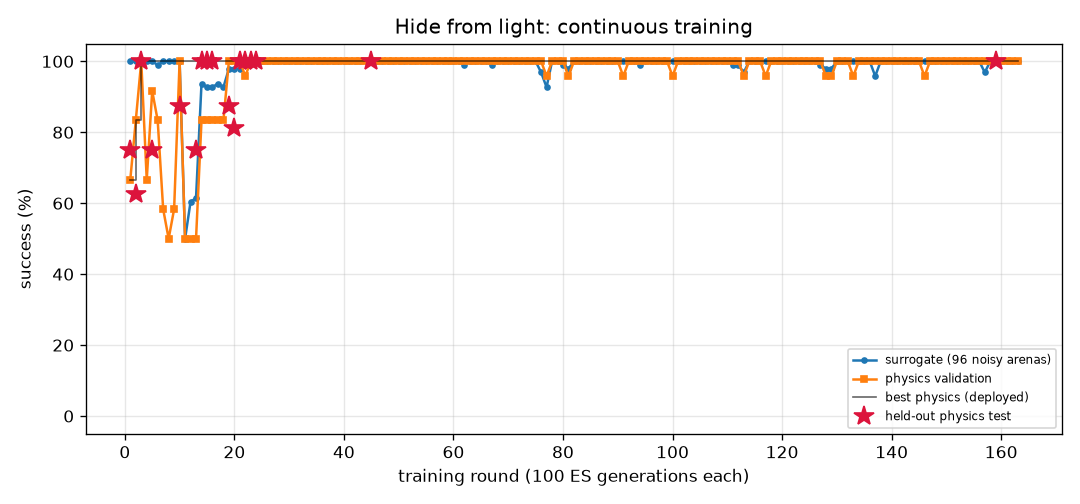
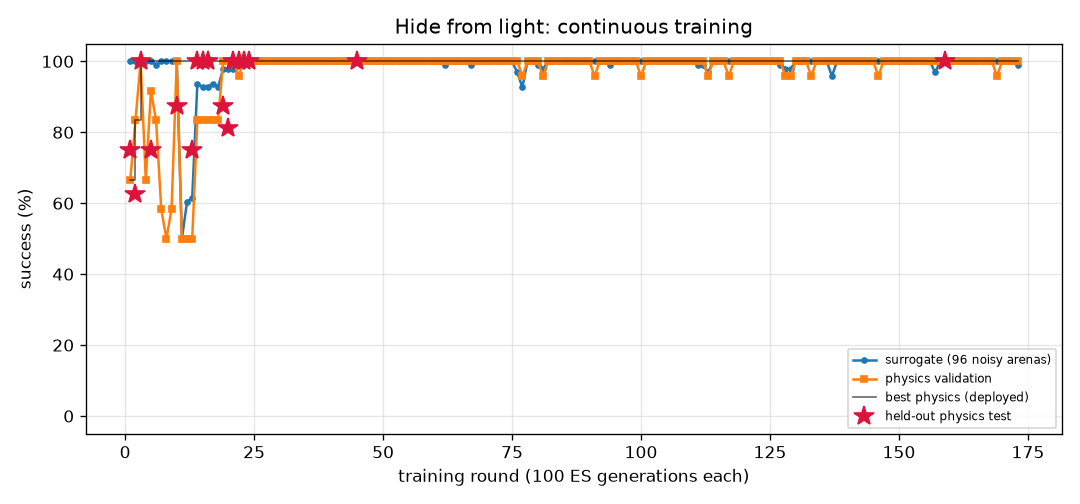
FlyLab: continuous training progress
- walk_forward: optimal, physics val 100% of 24, round 72
- turn: optimal, physics val 100% of 24, round 301
- goto: optimal, physics val 100% of 24, round 73
- odor_seek: optimal, physics val 100% of 24, round 81
- odor_avoid: optimal, physics val 100% of 24, round 395
- light_seek: optimal, physics val 100% of 24, round 259
- light_avoid: optimal, physics val 100% of 24, round 173

diff --git a/projects/09_flylab/training/odor_avoid/REPORT.md b/projects/09_flylab/training/odor_avoid/REPORT.md
@@ -1,14 +1,14 @@
 # Escape a bad smell (`odor_avoid`) — training report
 
-*Auto-generated by `train_brains.py`, last updated 2026-10-10T23:16:25.*
+*Auto-generated by `train_brains.py`, last updated 2026-10-11T11:41:08.*
 
 ![curve](curve.png)
 
 | | |
 |---|---|
-| rounds | 384 |
-| ES generations | 38400 |
-| physics runs | 6522 |
+| rounds | 395 |
+| ES generations | 39500 |
+| physics runs | 6786 |
 | status | **optimal** |
 | best brain | round 373: physics validation **100%** on 24 arenas, surrogate 97% |
 | held-out physics test | **97%** on 32 unseen arenas (95% CI 84%-99%) (errors: [62.0, 57.4, 62.6, 61.9, 59.0, 61.6, 56.5, 60.7, 31.7, 60.9, 63.1, 57.1, 61.1, 62.1, 61.5, 60.2, 62.2, 55.2, 62.1, 54.2, 61.3, 62.0, 58.0, 61.9, 59.8, 56.5, 56.3, 56.4, 56.3, 57.7, 61.9, 32.4]) |
@@ -17,17 +17,6 @@ Physics error per arena: mm gained away from source (> 6 without first approachi
 
 | round | level | gens | sigma | surrogate | physics val | val errors | test | note |
 |---:|---:|---:|---:|---:|---:|---|---:|---|
-| 345 | 3 | 34500 | 0.026 | 96% | 96% | [58.7, 58.6, 52.3, 57.9, 57.2, 59.7, 59.1, 59.5, 59.3, 59.1, 20.8, 58.5, 46.6, 53.0, 36.7, 58.8, 58.5, 57.9, 51.2, 57.8, 58.7, 59.0, 58.0, 59.3] |  |  |
-| 346 | 3 | 34600 | 0.026 | 95% | 100% | [62.2, 57.1, 55.9, 57.2, 62.1, 60.3, 61.1, 50.7, 59.9, 59.4, 61.3, 61.5, 54.4, 56.1, 48.0, 61.4, 61.5, 61.9, 55.0, 56.6, 61.4, 61.5, 57.6, 60.4] |  |  |
-| 347 | 3 | 34700 | 0.027 | 96% | 96% | [62.2, 59.5, 56.1, 61.0, 62.3, 61.3, 61.1, 57.8, 61.0, 59.8, 61.3, 61.8, 51.5, 55.6, 29.1, 61.9, 61.8, 60.5, 54.9, 56.6, 61.4, 61.3, 59.2, 60.0] |  | restart from best |
-| 348 | 3 | 34800 | 0.025 | 96% | 96% | [59.4, 59.2, 55.8, 58.0, 61.4, 60.8, 61.1, 19.5, 61.1, 59.5, 57.1, 60.8, 53.4, 55.7, 42.5, 61.2, 60.9, 60.9, 54.4, 55.9, 61.0, 46.0, 58.6, 44.8] |  |  |
-| 349 | 3 | 34900 | 0.026 | 94% | 96% | [60.0, 59.4, 55.5, 58.5, 60.9, 62.2, 61.2, 48.5, 60.9, 61.3, 60.7, 61.4, 54.5, 55.6, 41.8, 60.3, 61.7, 61.6, 54.5, 56.2, 61.4, 61.4, 58.7, 59.2] |  |  |
-| 350 | 3 | 35000 | 0.028 | 94% | 96% | [62.9, 60.0, 56.1, 58.8, 63.1, 62.4, 61.8, 61.3, 60.6, 62.3, 62.5, 62.0, 55.4, 56.5, 47.9, 62.4, 62.2, 61.9, 53.4, 57.2, 62.0, 62.5, 58.9, 62.1] |  |  |
-| 351 | 3 | 35100 | 0.028 | 96% | 96% | [62.1, 59.5, 56.1, 61.2, 61.8, 60.9, 61.8, 40.1, 61.7, 50.5, 60.2, 61.9, 55.0, 56.2, 25.4, 61.6, 62.2, 60.3, 55.6, 56.7, 62.1, 61.2, 59.9, 61.1] |  | restart from best |
-| 352 | 3 | 35200 | 0.025 | 98% | 100% | [61.0, 60.2, 56.0, 59.0, 61.1, 61.3, 61.8, 57.0, 61.6, 33.0, 50.8, 60.9, 49.1, 53.8, 26.3, 59.6, 61.5, 48.7, 50.5, 58.4, 61.6, 48.0, 58.8, 58.6] | 100% | new best |
-| 353 | 3 | 35300 | 0.025 | 94% | 100% | [59.2, 53.6, 54.1, 56.7, 44.5, 57.3, 59.4, 56.5, 59.1, 53.4, 35.9, 59.7, 44.6, 51.6, 24.3, 56.9, 59.6, 55.1, 48.0, 56.2, 59.5, 57.2, 56.9, 57.6] |  |  |
-| 354 | 3 | 35400 | 0.028 | 96% | 96% | [60.3, 58.1, 55.3, 59.9, 60.3, 57.9, 59.0, 45.9, 60.4, 14.1, 59.6, 60.5, 54.0, 54.7, 43.6, 58.1, 60.6, 59.7, 53.6, 55.0, 60.3, 31.3, 58.6, 30.1] |  |  |
-| 355 | 3 | 35500 | 0.026 | 94% | 100% | [62.0, 60.8, 58.1, 61.1, 61.0, 58.0, 60.8, 47.0, 60.6, 57.4, 60.7, 61.0, 54.4, 56.0, 51.0, 60.9, 60.8, 61.2, 54.4, 56.3, 60.9, 61.0, 60.8, 52.5] |  |  |
 | 356 | 3 | 35600 | 0.028 | 93% | 100% | [62.2, 60.6, 57.2, 60.6, 61.1, 59.8, 61.3, 28.9, 60.7, 37.9, 57.0, 61.6, 51.7, 55.9, 35.3, 61.1, 61.5, 48.2, 54.5, 56.3, 61.1, 55.7, 60.7, 58.5] |  | restart from best |
 | 357 | 3 | 35700 | 0.025 | 94% | 100% | [60.8, 60.5, 55.9, 59.4, 62.1, 61.8, 61.0, 61.5, 61.4, 50.8, 61.3, 61.4, 54.7, 56.4, 50.1, 61.3, 61.8, 61.1, 54.5, 59.5, 61.8, 62.3, 59.4, 61.7] |  |  |
 | 358 | 3 | 35800 | 0.028 | 96% | 96% | [60.6, 60.1, 55.6, 59.1, 61.0, 61.0, 60.5, 19.9, 61.6, 23.1, 56.4, 61.1, 51.0, 55.6, 26.9, 61.1, 61.0, 53.9, 51.1, 59.6, 61.6, 48.2, 56.5, 33.8] |  |  |
@@ -57,3 +46,14 @@ Physics error per arena: mm gained away from source (> 6 without first approachi
 | 382 | 3 | 38200 | 0.026 | 94% | 96% | [62.9, 61.7, 56.2, 61.6, 60.8, 62.0, 61.5, 32.1, 61.5, 54.9, 53.7, 61.7, 51.2, 55.4, 36.1, 61.8, 62.0, 62.3, 52.0, 58.0, 62.1, 51.2, 61.9, 61.7] |  |  |
 | 383 | 3 | 38300 | 0.028 | 92% | 100% | [62.9, 61.7, 55.5, 61.6, 60.8, 59.4, 61.7, 42.4, 60.9, 44.6, 43.2, 61.4, 36.7, 53.3, 6.5, 61.7, 61.5, 61.0, 50.0, 57.7, 61.8, 53.8, 59.6, 62.0] |  |  |
 | 384 | 3 | 38400 | 0.029 | 96% | 96% | [63.2, 56.0, 56.3, 59.1, 61.6, 61.2, 61.6, 55.2, 60.3, 35.1, 45.7, 61.7, 53.0, 55.5, 40.4, 61.9, 61.8, 62.0, 55.2, 58.3, 61.8, 52.8, 58.7, 62.3] |  |  |
+| 385 | 3 | 38500 | 0.026 | 97% | 100% | [61.1, 57.8, 55.9, 57.2, 61.8, 60.6, 61.9, 60.8, 61.5, 59.6, 47.1, 61.5, 48.5, 54.4, 29.2, 61.3, 61.2, 60.0, 52.4, 60.1, 60.6, 61.6, 60.9, 62.1] |  | restart from best |
+| 386 | 3 | 38600 | 0.026 | 98% | 96% | [62.8, 58.6, 57.8, 61.3, 61.7, 61.9, 61.5, 43.6, 59.8, 59.2, 62.0, 61.8, 55.2, 58.4, 42.6, 61.3, 61.7, 60.7, 54.9, 60.2, 61.7, 61.3, 58.7, 58.2] |  |  |
+| 387 | 3 | 38700 | 0.025 | 96% | 96% | [62.8, 58.9, 58.2, 60.5, 61.1, 61.1, 60.8, 45.0, 60.8, 46.4, 60.6, 59.6, 51.5, 55.1, 38.9, 60.1, 60.0, 59.6, 53.5, 57.0, 59.6, 58.1, 59.1, 52.7] |  |  |
+| 388 | 3 | 38800 | 0.026 | 93% | 96% | [62.4, 59.5, 56.5, 61.1, 59.6, 61.1, 60.9, 58.8, 60.2, 42.4, 59.2, 60.2, 52.5, 54.7, 43.9, 58.4, 60.6, 60.3, 52.3, 56.5, 60.7, 61.3, 58.6, 62.0] |  |  |
+| 389 | 3 | 38900 | 0.028 | 95% | 96% | [61.7, 60.8, 55.8, 60.9, 60.6, 61.6, 61.6, 59.1, 61.6, 60.3, 60.3, 61.9, 51.4, 55.7, 33.6, 61.8, 61.7, 62.4, 54.6, 56.7, 61.6, 61.4, 57.2, 61.3] |  | restart from best |
+| 390 | 3 | 39000 | 0.026 | 95% | 96% | [63.2, 58.7, 56.3, 60.9, 62.2, 61.3, 61.7, 52.1, 60.3, 60.3, 62.2, 61.9, 54.7, 56.3, 38.1, 61.9, 61.9, 62.6, 55.6, 57.3, 61.9, 61.9, 59.3, 58.6] |  |  |
+| 391 | 3 | 39100 | 0.027 | 95% | 100% | [61.6, 59.8, 55.8, 60.7, 61.7, 61.0, 60.5, 34.1, 60.7, 60.3, 61.2, 61.2, 54.7, 55.9, 50.4, 61.9, 61.4, 61.4, 54.6, 56.7, 61.6, 60.2, 59.1, 51.4] |  |  |
+| 392 | 3 | 39200 | 0.027 | 97% | 96% | [61.7, 59.9, 55.3, 60.2, 60.2, 59.7, 60.2, 10.8, 59.6, 25.1, 7.2, 60.6, 50.5, 55.0, 41.2, 59.4, 60.4, 60.1, 53.8, 57.2, 60.9, 44.7, 54.8, 29.5] |  |  |
+| 393 | 3 | 39300 | 0.026 | 96% | 100% | [62.9, 57.5, 56.3, 61.2, 62.3, 61.7, 61.7, 57.0, 60.2, 42.8, 54.4, 62.2, 50.0, 55.9, 39.7, 61.8, 62.0, 60.8, 55.0, 55.8, 61.9, 50.0, 61.5, 58.8] |  | restart from best |
+| 394 | 3 | 39400 | 0.026 | 94% | 100% | [63.3, 57.1, 56.2, 60.1, 61.2, 61.0, 61.1, 53.4, 61.1, 54.3, 58.0, 61.7, 53.1, 55.4, 31.7, 62.4, 62.2, 61.7, 54.9, 57.8, 61.8, 62.5, 59.6, 62.7] |  |  |
+| 395 | 3 | 39500 | 0.028 | 94% | 100% | [62.7, 59.5, 57.2, 61.3, 61.8, 62.6, 60.9, 53.5, 61.7, 61.7, 61.4, 62.5, 54.4, 57.4, 11.2, 61.4, 62.3, 62.2, 55.3, 57.3, 62.2, 59.5, 60.0, 60.9] |  |  |

diff --git a/projects/09_flylab/training/light_avoid/REPORT.md b/projects/09_flylab/training/light_avoid/REPORT.md
@@ -1,14 +1,14 @@
 # Hide from light (`light_avoid`) — training report
 
-*Auto-generated by `train_brains.py`, last updated 2026-10-10T20:42:43.*
+*Auto-generated by `train_brains.py`, last updated 2026-10-11T11:41:17.*
 
 ![curve](curve.png)
 
 | | |
 |---|---|
-| rounds | 163 |
-| ES generations | 16300 |
-| physics runs | 4184 |
+| rounds | 173 |
+| ES generations | 17300 |
+| physics runs | 4424 |
 | status | **optimal** |
 | best brain | round 159: physics validation **100%** on 24 arenas, surrogate 100% |
 | held-out physics test | **100%** on 32 unseen arenas (95% CI 89%-100%) (errors: [14.4, 56.1, 58.0, 57.9, 57.5, 14.0, 14.4, 56.6, 56.8, 13.3, 14.1, 56.6, 57.6, 13.1, 57.3, 55.9, 57.2, 55.0, 55.2, 53.9, 55.2, 12.4, 53.8, 53.7, 14.1, 13.7, 55.0, 57.8, 56.2, 13.1, 52.8, 56.5]) |
@@ -17,16 +17,6 @@ Physics error per arena: mm gained away from source (> 6 without first approachi
 
 | round | level | gens | sigma | surrogate | physics val | val errors | test | note |
 |---:|---:|---:|---:|---:|---:|---|---:|---|
-| 124 | 3 | 12400 | 0.024 | 100% | 100% | [43.4, 41.4, 40.9, 41.5, 44.5, 41.3, 38.6, 14.5, 41.4, 37.5, 42.9, 44.5, 14.4, 43.5, 41.0, 42.8, 14.2, 44.5, 42.1, 14.4, 41.9, 43.6, 39.4, 44.6] |  |  |
-| 125 | 3 | 12500 | 0.024 | 100% | 100% | [50.2, 51.8, 51.7, 49.8, 50.5, 50.2, 50.7, 14.5, 46.8, 13.4, 50.1, 50.3, 14.4, 51.6, 51.8, 48.7, 14.2, 51.1, 52.0, 14.4, 11.7, 50.1, 50.3, 49.6] |  | restart from best |
-| 126 | 3 | 12600 | 0.024 | 100% | 100% | [51.1, 53.1, 52.8, 50.7, 52.6, 50.2, 51.5, 14.5, 47.3, 13.4, 53.0, 52.4, 14.4, 51.1, 52.9, 49.7, 14.2, 53.1, 53.4, 14.4, 51.0, 53.0, 51.3, 51.9] |  |  |
-| 127 | 3 | 12700 | 0.024 | 99% | 100% | [34.5, 36.3, 36.4, 35.9, 31.3, 35.3, 37.1, 14.5, 13.0, 13.4, 10.1, 31.0, 14.4, 27.8, 36.3, 33.8, 14.2, 32.4, 35.7, 14.4, 31.5, 11.1, 35.9, 29.2] |  |  |
-| 128 | 3 | 12800 | 0.025 | 98% | 96% | [43.0, 43.8, 43.6, 42.6, 42.2, 42.5, 42.7, 14.5, 13.0, 13.4, 10.2, 42.0, 14.4, 7.9, 43.7, 42.7, 14.2, 42.8, 44.1, 14.4, 43.8, 11.3, 42.3, 41.2] |  |  |
-| 129 | 3 | 12900 | 0.025 | 98% | 96% | [39.7, 42.8, 42.9, 39.1, 39.0, 41.9, 42.9, 14.5, 13.0, 13.4, 10.2, 38.7, 14.4, 7.9, 43.0, 40.3, 14.2, 40.2, 42.8, 14.4, 40.6, 11.3, 42.2, 37.6] |  | restart from best |
-| 130 | 3 | 13000 | 0.024 | 100% | 100% | [45.4, 46.5, 45.8, 46.2, 49.6, 45.9, 43.8, 14.5, 43.7, 13.3, 48.7, 49.7, 14.4, 48.7, 46.2, 45.4, 14.2, 49.5, 46.9, 14.4, 43.1, 49.3, 44.8, 49.5] |  |  |
-| 131 | 3 | 13100 | 0.024 | 100% | 100% | [44.0, 45.0, 45.6, 44.5, 42.1, 44.4, 46.4, 14.5, 33.5, 13.3, 42.4, 41.6, 14.3, 40.9, 45.5, 43.7, 14.2, 42.4, 45.5, 14.4, 40.2, 42.8, 45.3, 40.8] |  |  |
-| 132 | 3 | 13200 | 0.024 | 100% | 100% | [55.0, 57.4, 57.6, 55.2, 53.7, 54.9, 57.3, 14.5, 53.6, 13.1, 50.4, 53.7, 14.4, 52.2, 57.6, 54.5, 14.2, 55.4, 57.1, 14.4, 53.9, 53.1, 57.4, 52.4] |  |  |
-| 133 | 3 | 13300 | 0.024 | 100% | 96% | [33.5, 37.3, 36.9, 34.5, 32.2, 34.0, 37.0, 14.5, 15.9, 13.3, 31.6, 33.4, 14.4, 33.1, 37.8, 31.7, 14.2, 33.9, 35.7, 14.4, 31.5, 32.4, 36.5, 32.8] |  | restart from best |
 | 134 | 3 | 13400 | 0.024 | 100% | 100% | [39.5, 39.6, 38.7, 39.8, 42.0, 39.9, 37.1, 14.5, 35.7, 13.0, 39.9, 40.9, 14.4, 40.2, 39.1, 40.7, 14.2, 41.8, 39.7, 14.4, 38.2, 40.3, 37.6, 40.6] |  |  |
 | 135 | 3 | 13500 | 0.024 | 100% | 100% | [49.4, 50.7, 50.4, 50.1, 50.9, 50.1, 48.8, 14.5, 46.0, 13.3, 49.3, 50.7, 14.3, 49.7, 50.6, 49.2, 14.2, 51.2, 50.9, 14.4, 48.2, 49.0, 48.5, 50.4] |  |  |
 | 136 | 3 | 13600 | 0.024 | 100% | 100% | [47.7, 49.2, 48.5, 47.5, 51.4, 48.0, 45.8, 14.5, 44.4, 13.5, 51.7, 51.4, 14.4, 51.0, 48.8, 47.5, 14.2, 51.5, 48.8, 14.4, 49.5, 51.5, 46.7, 51.5] |  |  |
@@ -57,3 +47,13 @@ Physics error per arena: mm gained away from source (> 6 without first approachi
 | 161 | 3 | 16100 | 0.024 | 100% | 100% | [38.5, 39.0, 37.8, 39.7, 41.3, 37.6, 35.3, 14.5, 40.8, 13.1, 40.1, 39.3, 14.4, 40.6, 38.4, 38.4, 14.2, 38.6, 37.7, 14.4, 39.9, 40.7, 35.7, 40.0] |  |  |
 | 162 | 3 | 16200 | 0.024 | 100% | 100% | [56.9, 60.4, 60.2, 57.4, 59.5, 57.8, 59.0, 14.5, 54.5, 13.5, 59.3, 59.3, 14.4, 57.4, 60.3, 57.7, 14.2, 60.1, 60.7, 14.4, 56.3, 58.9, 58.9, 58.6] |  |  |
 | 163 | 3 | 16300 | 0.024 | 100% | 100% | [54.8, 59.5, 59.3, 55.3, 59.6, 55.6, 57.7, 14.5, 55.3, 13.3, 57.9, 59.4, 14.4, 58.9, 59.4, 54.7, 14.2, 60.1, 59.9, 14.4, 56.5, 58.3, 57.8, 58.9] |  | restart from best |
+| 164 | 3 | 16400 | 0.024 | 100% | 100% | [41.0, 38.5, 38.2, 41.6, 41.6, 39.7, 36.5, 14.5, 40.5, 13.2, 41.5, 41.7, 14.3, 41.3, 39.3, 40.3, 14.2, 41.6, 39.3, 14.4, 38.4, 42.1, 37.2, 41.9] |  |  |
+| 165 | 3 | 16500 | 0.024 | 100% | 100% | [42.7, 43.2, 42.2, 42.5, 44.7, 43.3, 40.4, 14.5, 40.4, 13.3, 44.3, 44.3, 14.4, 44.2, 42.9, 42.5, 14.2, 43.9, 42.8, 14.4, 42.5, 45.1, 41.0, 43.8] |  |  |
+| 166 | 3 | 16600 | 0.024 | 100% | 100% | [58.0, 61.2, 61.0, 58.3, 60.2, 58.2, 59.9, 14.5, 56.4, 13.3, 59.9, 60.0, 14.4, 57.8, 61.1, 57.8, 14.2, 60.8, 61.4, 14.4, 57.8, 59.7, 59.8, 59.4] |  |  |
+| 167 | 3 | 16700 | 0.024 | 100% | 100% | [46.6, 47.4, 47.6, 46.2, 42.6, 45.5, 48.7, 14.5, 12.8, 13.4, 39.8, 42.0, 14.4, 44.3, 47.9, 44.1, 14.2, 43.2, 46.9, 14.4, 44.7, 42.1, 47.5, 41.5] |  | restart from best |
+| 168 | 3 | 16800 | 0.024 | 100% | 100% | [55.6, 58.8, 58.6, 56.0, 57.3, 56.3, 57.6, 14.5, 54.2, 13.3, 57.9, 57.2, 14.4, 55.1, 58.7, 55.5, 14.2, 58.0, 59.0, 14.4, 56.2, 58.1, 57.4, 56.4] |  |  |
+| 169 | 3 | 16900 | 0.024 | 100% | 96% | [55.6, 57.8, 57.7, 56.3, 56.1, 55.2, 56.8, 14.5, 44.4, 13.3, 56.1, 55.8, 14.4, 57.5, 57.8, 55.6, 14.2, 57.1, 58.0, 14.4, 55.3, 56.2, 56.5, 54.9] |  |  |
+| 170 | 3 | 17000 | 0.024 | 100% | 100% | [43.5, 43.9, 43.3, 44.1, 47.6, 43.6, 40.8, 14.5, 40.8, 13.5, 44.0, 47.9, 14.4, 43.7, 43.4, 43.7, 14.2, 47.5, 45.4, 14.4, 40.7, 44.1, 41.2, 48.1] |  |  |
+| 171 | 3 | 17100 | 0.024 | 100% | 100% | [55.9, 60.3, 60.0, 57.2, 59.9, 57.5, 58.7, 14.5, 12.7, 13.4, 57.6, 59.7, 14.4, 58.3, 60.2, 56.0, 14.2, 60.4, 60.6, 14.4, 55.6, 57.1, 58.5, 59.1] |  | restart from best |
+| 172 | 3 | 17200 | 0.024 | 100% | 100% | [52.7, 54.4, 54.3, 52.6, 53.3, 52.8, 53.3, 14.5, 49.5, 13.3, 52.7, 53.0, 14.4, 54.1, 54.4, 53.0, 14.2, 53.8, 54.7, 14.4, 51.7, 52.8, 53.0, 52.3] |  |  |
+| 173 | 3 | 17300 | 0.024 | 99% | 100% | [50.3, 53.4, 53.1, 51.0, 52.9, 50.6, 51.8, 14.5, 12.8, 13.4, 51.9, 52.8, 14.4, 53.1, 53.3, 52.3, 14.2, 53.5, 53.7, 14.4, 51.7, 51.8, 51.5, 52.2] |  |  |

diff --git a/projects/09_flylab/training/turn/REPORT.md b/projects/09_flylab/training/turn/REPORT.md
@@ -1,14 +1,14 @@
 # Turn in place (`turn`) — training report
 
-*Auto-generated by `train_brains.py`, last updated 2026-10-11T10:37:55.*
+*Auto-generated by `train_brains.py`, last updated 2026-10-11T10:42:37.*
 
 ![curve](curve.png)
 
 | | |
 |---|---|
-| rounds | 300 |
-| ES generations | 30000 |
-| physics runs | 7446 |
+| rounds | 301 |
+| ES generations | 30100 |
+| physics runs | 7470 |
 | status | **optimal** |
 | best brain | round 80: physics validation **100%** on 24 arenas, surrogate 100% |
 | held-out physics test | **97%** on 32 unseen arenas (95% CI 84%-99%) (errors: [1.6, 3.3, 6.3, 3.7, 1.1, 0.4, 2.4, 2.9, 0.1, 2.6, 0.5, 2.7, 1.5, 3.1, 4.5, 0.2, 0.5, 1.1, 2.0, 4.4, 2.8, 3.2, 0.3, 2.2, 0.5, 3.0, 0.3, 5.4, 0.4, 1.0, 4.7, 10.7]) |
@@ -17,7 +17,6 @@ Physics error per arena: deg from target heading (< 20 = success).
 
 | round | level | gens | sigma | surrogate | physics val | val errors | test | note |
 |---:|---:|---:|---:|---:|---:|---|---:|---|
-| 261 | 3 | 26100 | 0.024 | 99% | 75% | [7.0, 10.6, 3.0, 4.0, 5.2, 5.0, 2.3, 3.9, 2.6, 1.9, 3.1, 2.8, 1.8, 3.2, 1.6, 2.2, 2.9, 1.8, 3.4, 3.4, 7.4, 1.8, 2.7, 1.3] |  |  |
 | 262 | 3 | 26200 | 0.025 | 99% | 67% | [6.7, 7.6, 4.5, 1.4, 2.1, 4.6, 4.6, 0.6, 4.4, 0.0, 2.9, 1.8, 0.8, 5.1, 3.8, 1.3, 2.3, 0.2, 1.4, 1.9, 6.0, 1.5, 4.4, 2.3] |  |  |
 | 263 | 3 | 26300 | 0.025 | 99% | 75% | [7.1, 9.3, 0.7, 3.4, 5.9, 2.6, 2.7, 0.2, 5.3, 2.1, 3.1, 2.3, 2.2, 0.7, 4.0, 0.5, 2.5, 2.1, 0.0, 0.3, 8.0, 0.8, 2.7, 2.3] |  |  |
 | 264 | 3 | 26400 | 0.025 | 100% | 71% | [6.7, 10.8, 4.0, 3.6, 3.6, 0.6, 2.0, 4.9, 1.6, 3.0, 1.6, 2.9, 2.1, 4.3, 1.6, 2.7, 2.6, 0.1, 2.7, 2.9, 4.7, 2.4, 2.9, 2.9] |  | restart from best |
@@ -57,3 +56,4 @@ Physics error per arena: deg from target heading (< 20 = success).
 | 298 | 3 | 29800 | 0.024 | 99% | 88% | [4.0, 3.9, 5.2, 1.1, 1.1, 0.3, 4.4, 4.6, 4.3, 1.2, 5.3, 0.5, 0.2, 0.9, 3.4, 0.3, 0.8, 1.3, 0.2, 0.3, 4.2, 1.6, 4.4, 1.2] |  |  |
 | 299 | 3 | 29900 | 0.025 | 99% | 83% | [6.5, 8.0, 2.5, 2.7, 5.8, 1.0, 2.5, 4.2, 3.5, 0.0, 4.8, 1.1, 2.3, 4.0, 4.0, 1.2, 1.3, 0.1, 1.3, 0.9, 6.5, 0.2, 1.5, 3.2] |  |  |
 | 300 | 3 | 30000 | 0.025 | 99% | 79% | [7.8, 1.3, 4.3, 0.0, 10.8, 2.9, 7.2, 4.6, 5.3, 1.0, 1.3, 2.4, 0.4, 1.4, 1.5, 1.5, 2.6, 2.6, 0.7, 1.6, 3.2, 2.4, 6.9, 8.3] |  | restart from best |
+| 301 | 3 | 30100 | 0.024 | 99% | 88% | [7.7, 5.5, 7.9, 3.1, 11.3, 2.8, 2.2, 1.9, 5.7, 0.4, 3.2, 1.3, 2.8, 4.8, 4.0, 1.9, 1.6, 1.0, 1.0, 1.2, 6.8, 0.3, 3.7, 1.5] |  |  |

diff --git a/projects/09_flylab/training/TRAINING.md b/projects/09_flylab/training/TRAINING.md
@@ -1,15 +1,15 @@
 # FlyLab brains — continuous training log
 
-*Auto-generated by `train_brains.py`, last updated 2026-10-11T10:37:55.*
+*Auto-generated by `train_brains.py`, last updated 2026-10-11T11:41:17.*
 
 Every skill has its own brain and its own training process: surrogate ES rounds, physics validation in MuJoCo, keep-the-best selection, and a held-out physics test that is never used for selection. See each skill's report for its full round-by-round history. Mastery is progressive: passing a level (100% physics validation, >=95% surrogate) doubles the validation and test arena sets; a brain is **optimal** once it holds up at level 3 (>=95% of 24 validation arenas) AND scores >=90% on the 32 held-out test arenas. Test columns show 95% Wilson confidence intervals.
 
 | skill | rounds | ES generations | physics runs | surrogate | physics val | **physics test** | status |
 |---|---:|---:|---:|---:|---:|---:|---|
 | [Walk forward](walk_forward/REPORT.md) | 72 | 7200 | 1678 | 100% | 100% of 24 | 100% of 32 (CI 89-100%) | **optimal** |
-| [Turn in place](turn/REPORT.md) | 300 | 30000 | 7446 | 100% | 100% of 24 | 97% of 32 (CI 84-99%) | **optimal** |
+| [Turn in place](turn/REPORT.md) | 301 | 30100 | 7470 | 100% | 100% of 24 | 97% of 32 (CI 84-99%) | **optimal** |
 | [Go to a location](goto/REPORT.md) | 73 | 7300 | 1542 | 100% | 100% of 24 | 100% of 32 (CI 89-100%) | **optimal** |
 | [Find food by smell](odor_seek/REPORT.md) | 81 | 8100 | 1246 | 100% | 100% of 24 | 100% of 32 (CI 89-100%) | **optimal** |
-| [Escape a bad smell](odor_avoid/REPORT.md) | 384 | 38400 | 6522 | 97% | 100% of 24 | 97% of 32 (CI 84-99%) | **optimal** |
+| [Escape a bad smell](odor_avoid/REPORT.md) | 395 | 39500 | 6786 | 97% | 100% of 24 | 97% of 32 (CI 84-99%) | **optimal** |
 | [Walk toward light](light_seek/REPORT.md) | 259 | 25900 | 2968 | 100% | 100% of 24 | 100% of 32 (CI 89-100%) | **optimal** |
-| [Hide from light](light_avoid/REPORT.md) | 163 | 16300 | 4184 | 100% | 100% of 24 | 100% of 32 (CI 89-100%) | **optimal** |
+| [Hide from light](light_avoid/REPORT.md) | 173 | 17300 | 4424 | 100% | 100% of 24 | 100% of 32 (CI 89-100%) | **optimal** |
